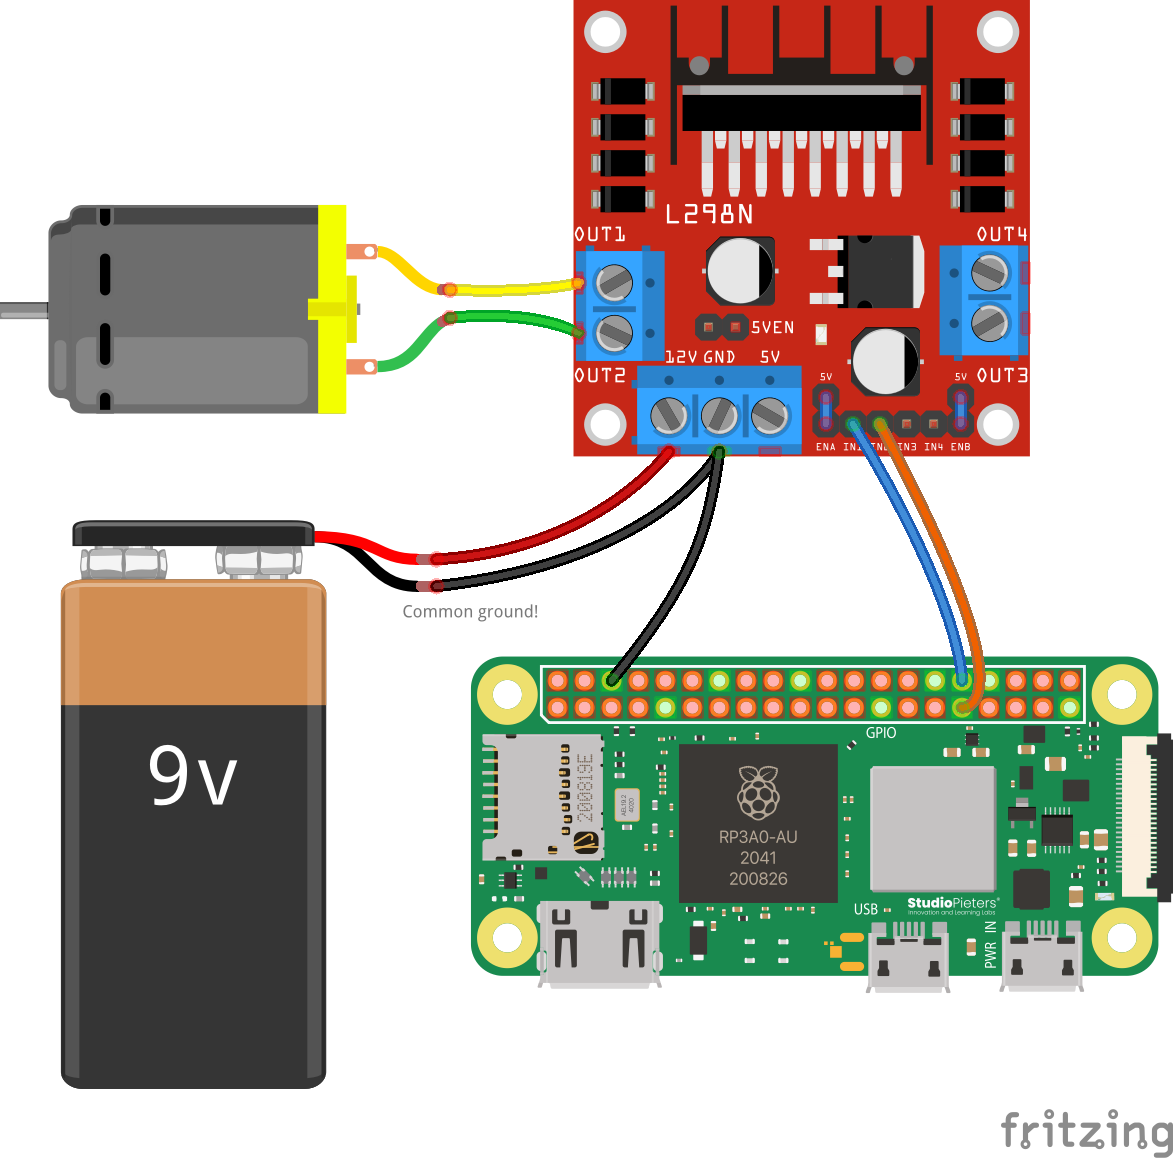
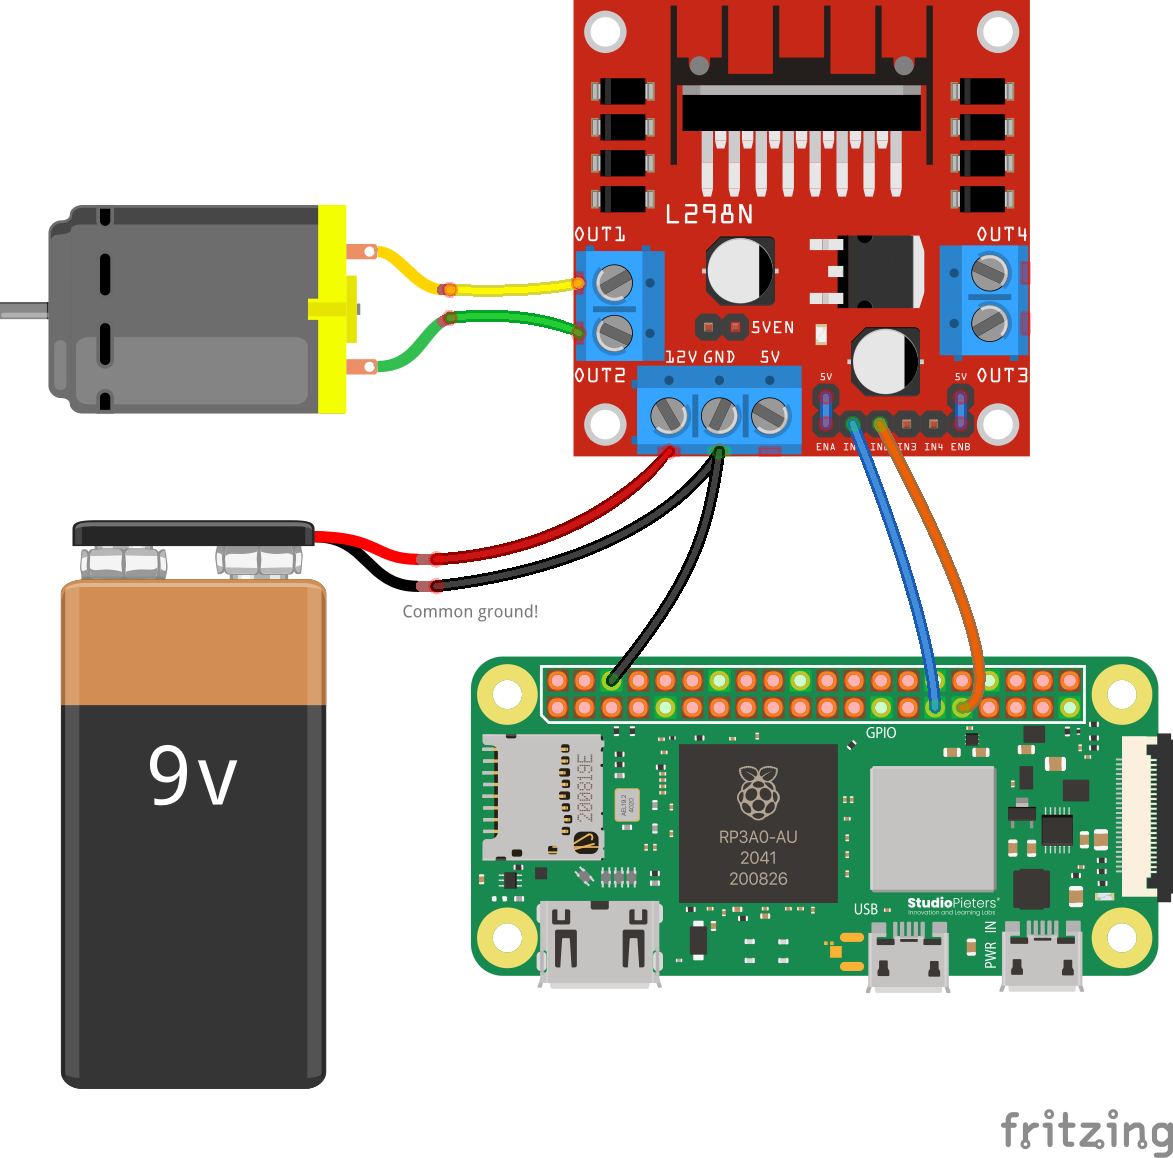
fix(motor): Update pins to not be on PWM

Changed region(s): [[0.7059, 0.3731, 0.8286, 0.6218]]

diff --git a/static/example/main.py b/static/example/main.py
@@ -11,7 +11,7 @@ app = Flask(__name__)
 app.config['SECRET_KEY'] = 'your-secret-key!'
 socketio = SocketIO(app)
 
-MOTOR_IN1_PIN = 12
+MOTOR_IN1_PIN = 5
 MOTOR_IN2_PIN = 6
 
 print("INFO: Initializing hardware...")

diff --git a/docs/challenges/motor/motor.md b/docs/challenges/motor/motor.md
@@ -31,8 +31,8 @@ The code for this is relatively simple, as all we're doing is turning the pins o
 import RPi.GPIO as GPIO
 
 # First, we define our two output pins that the motor controller is connected to.
-IN1 = 12  # GPIO 12
-IN2 = 6   # GPIO 6
+IN1 = 5
+IN2 = 6
 
 # Set the GPIO numbering mode so that it knows how we're referring to the pins
 GPIO.setmode(GPIO.BCM)
@@ -84,7 +84,7 @@ Motor not spinning? Run through this quick checklist:
 - **Check Power:**
   - Ensure the L298N controller's red power LED is lit.
   - 9V batteries drain quickly under motor load. Try a fresh battery, or try recharging the battery you currently have plugged in. The battery will have a completely standard USB-C port that you can use to charge it - just plug it into any adapter you have on hand!
-- **Verify Code:** Ensure your code is using `GPIO 12` and `GPIO 6`, matching the wiring diagram.
+- **Verify Code:** Ensure your code is using `GPIO 5` and `GPIO 6`, matching the wiring diagram.
 - **Hardware Test:** Briefly touch the two motor wires directly to the 9V battery terminals. If it doesn't spin, the motor itself may be broken.
 
 Still stuck? Reach out to competition administrators for help.
